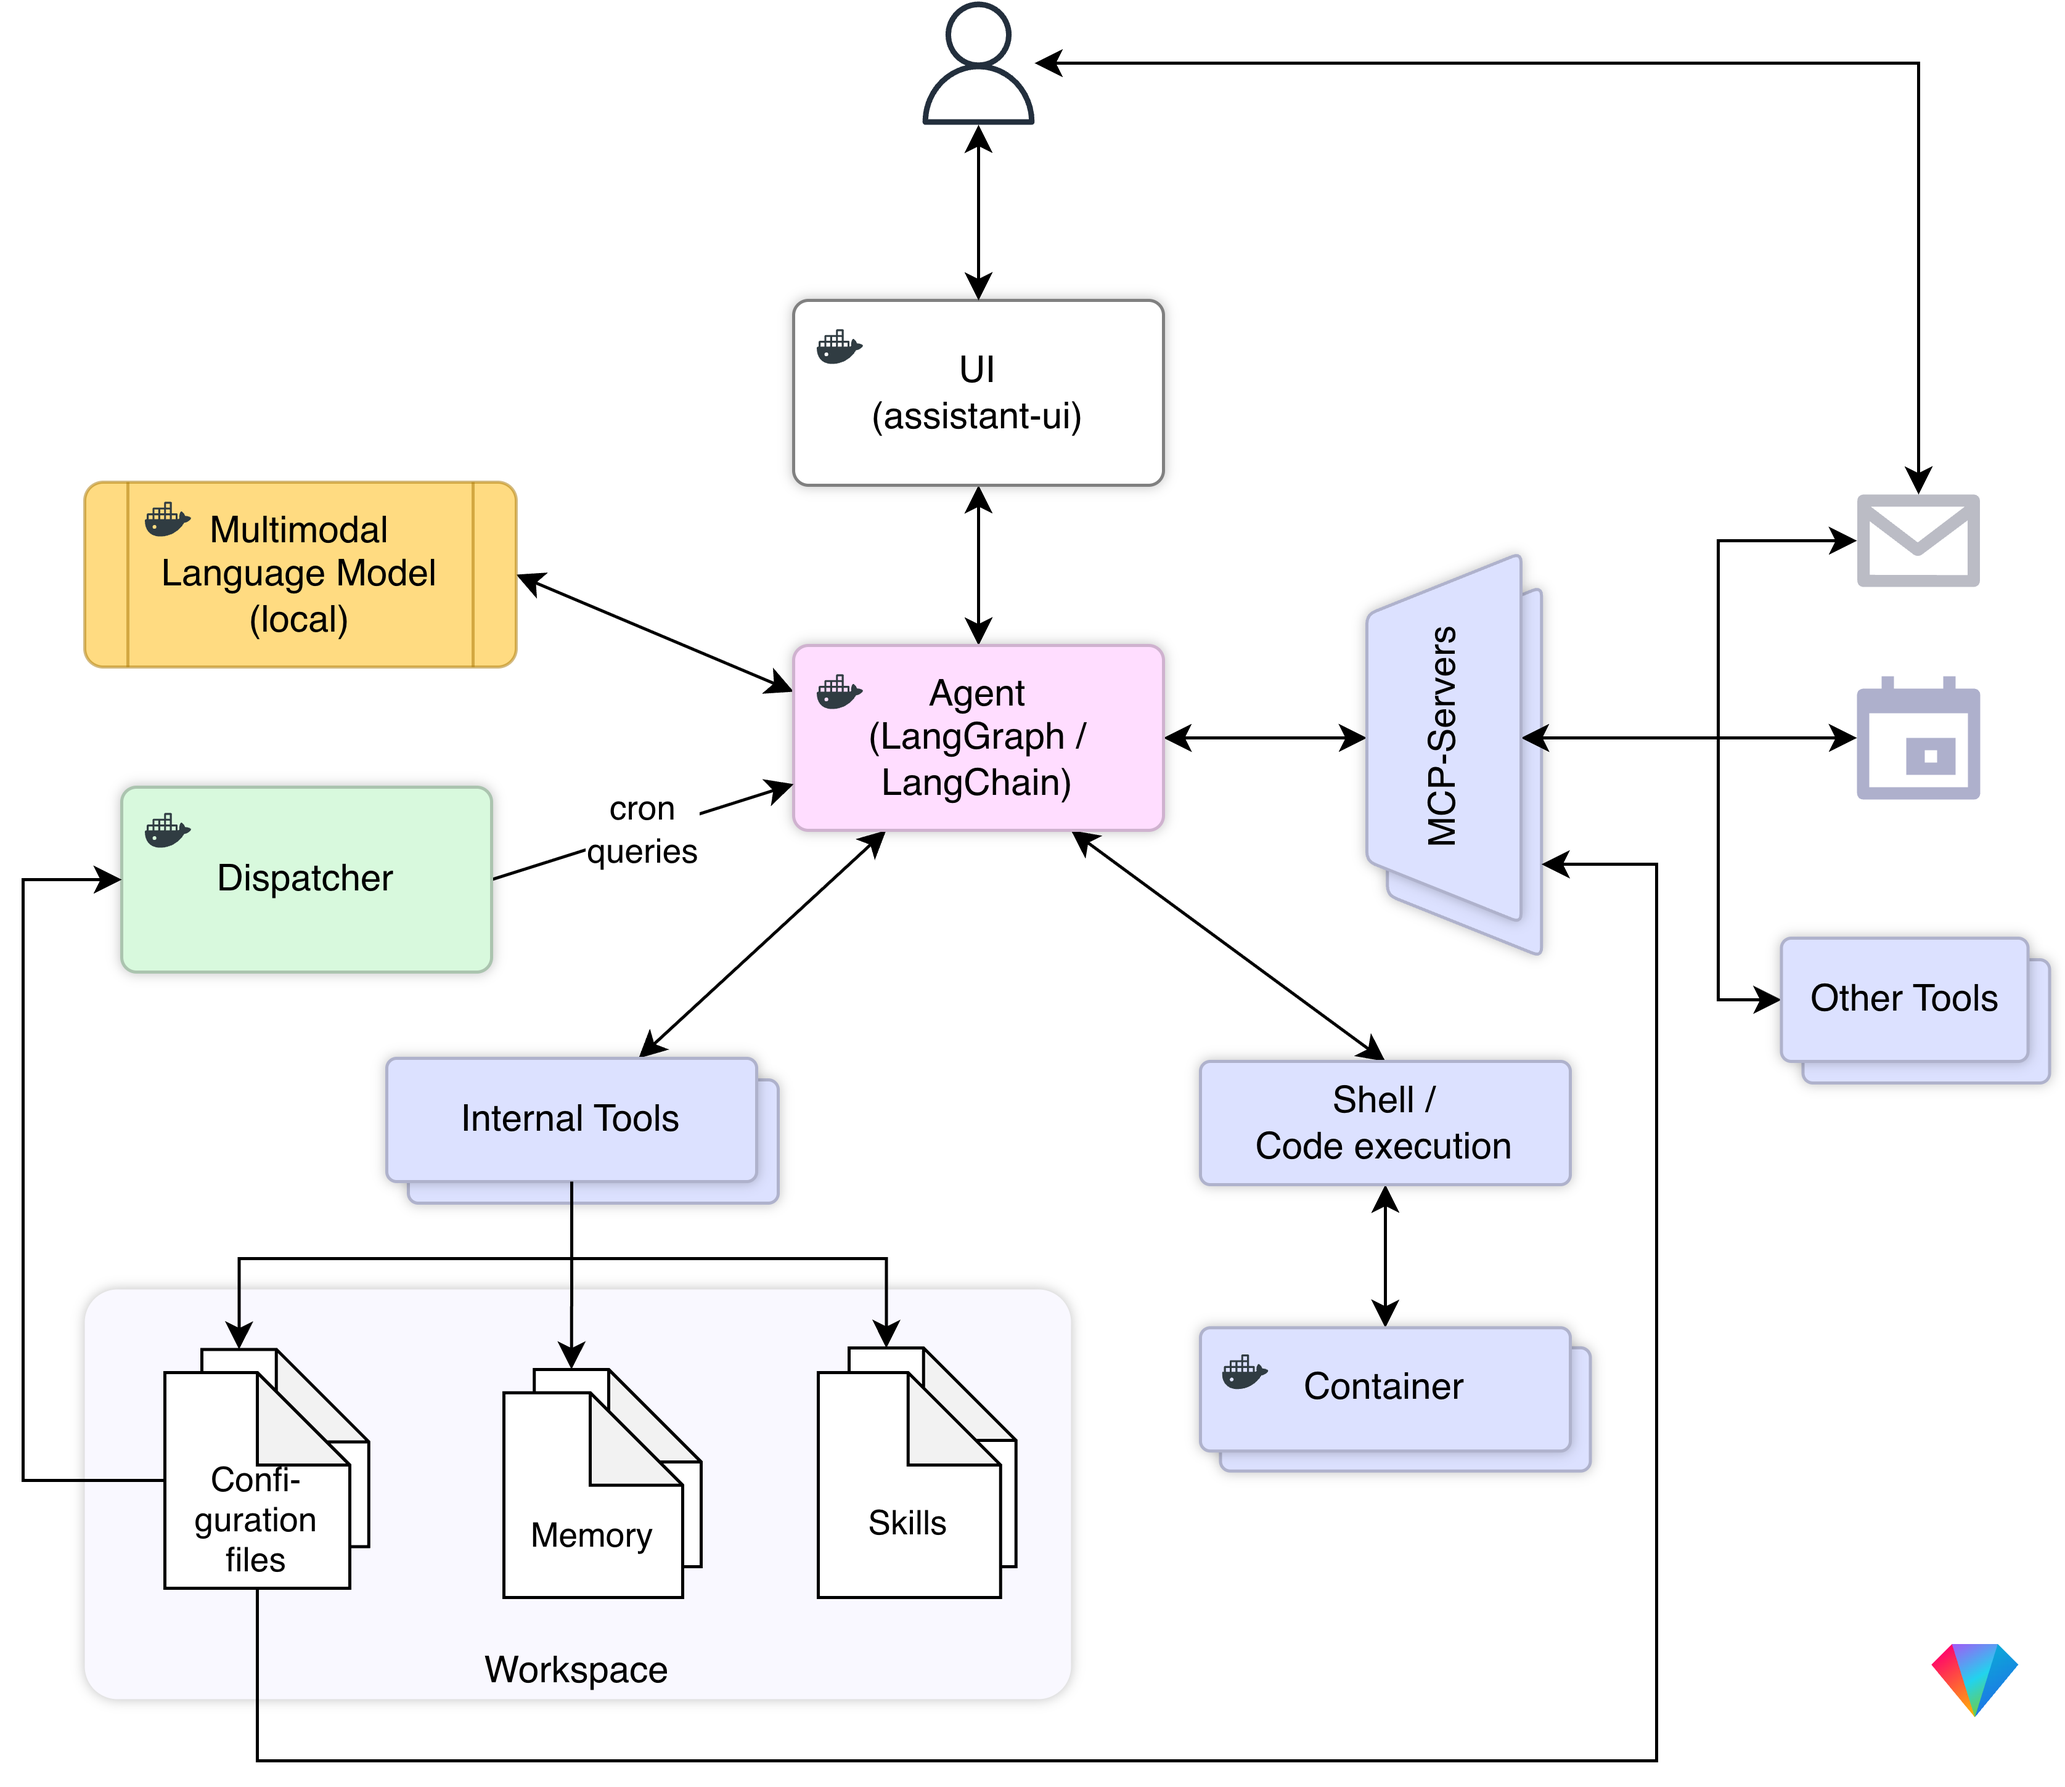
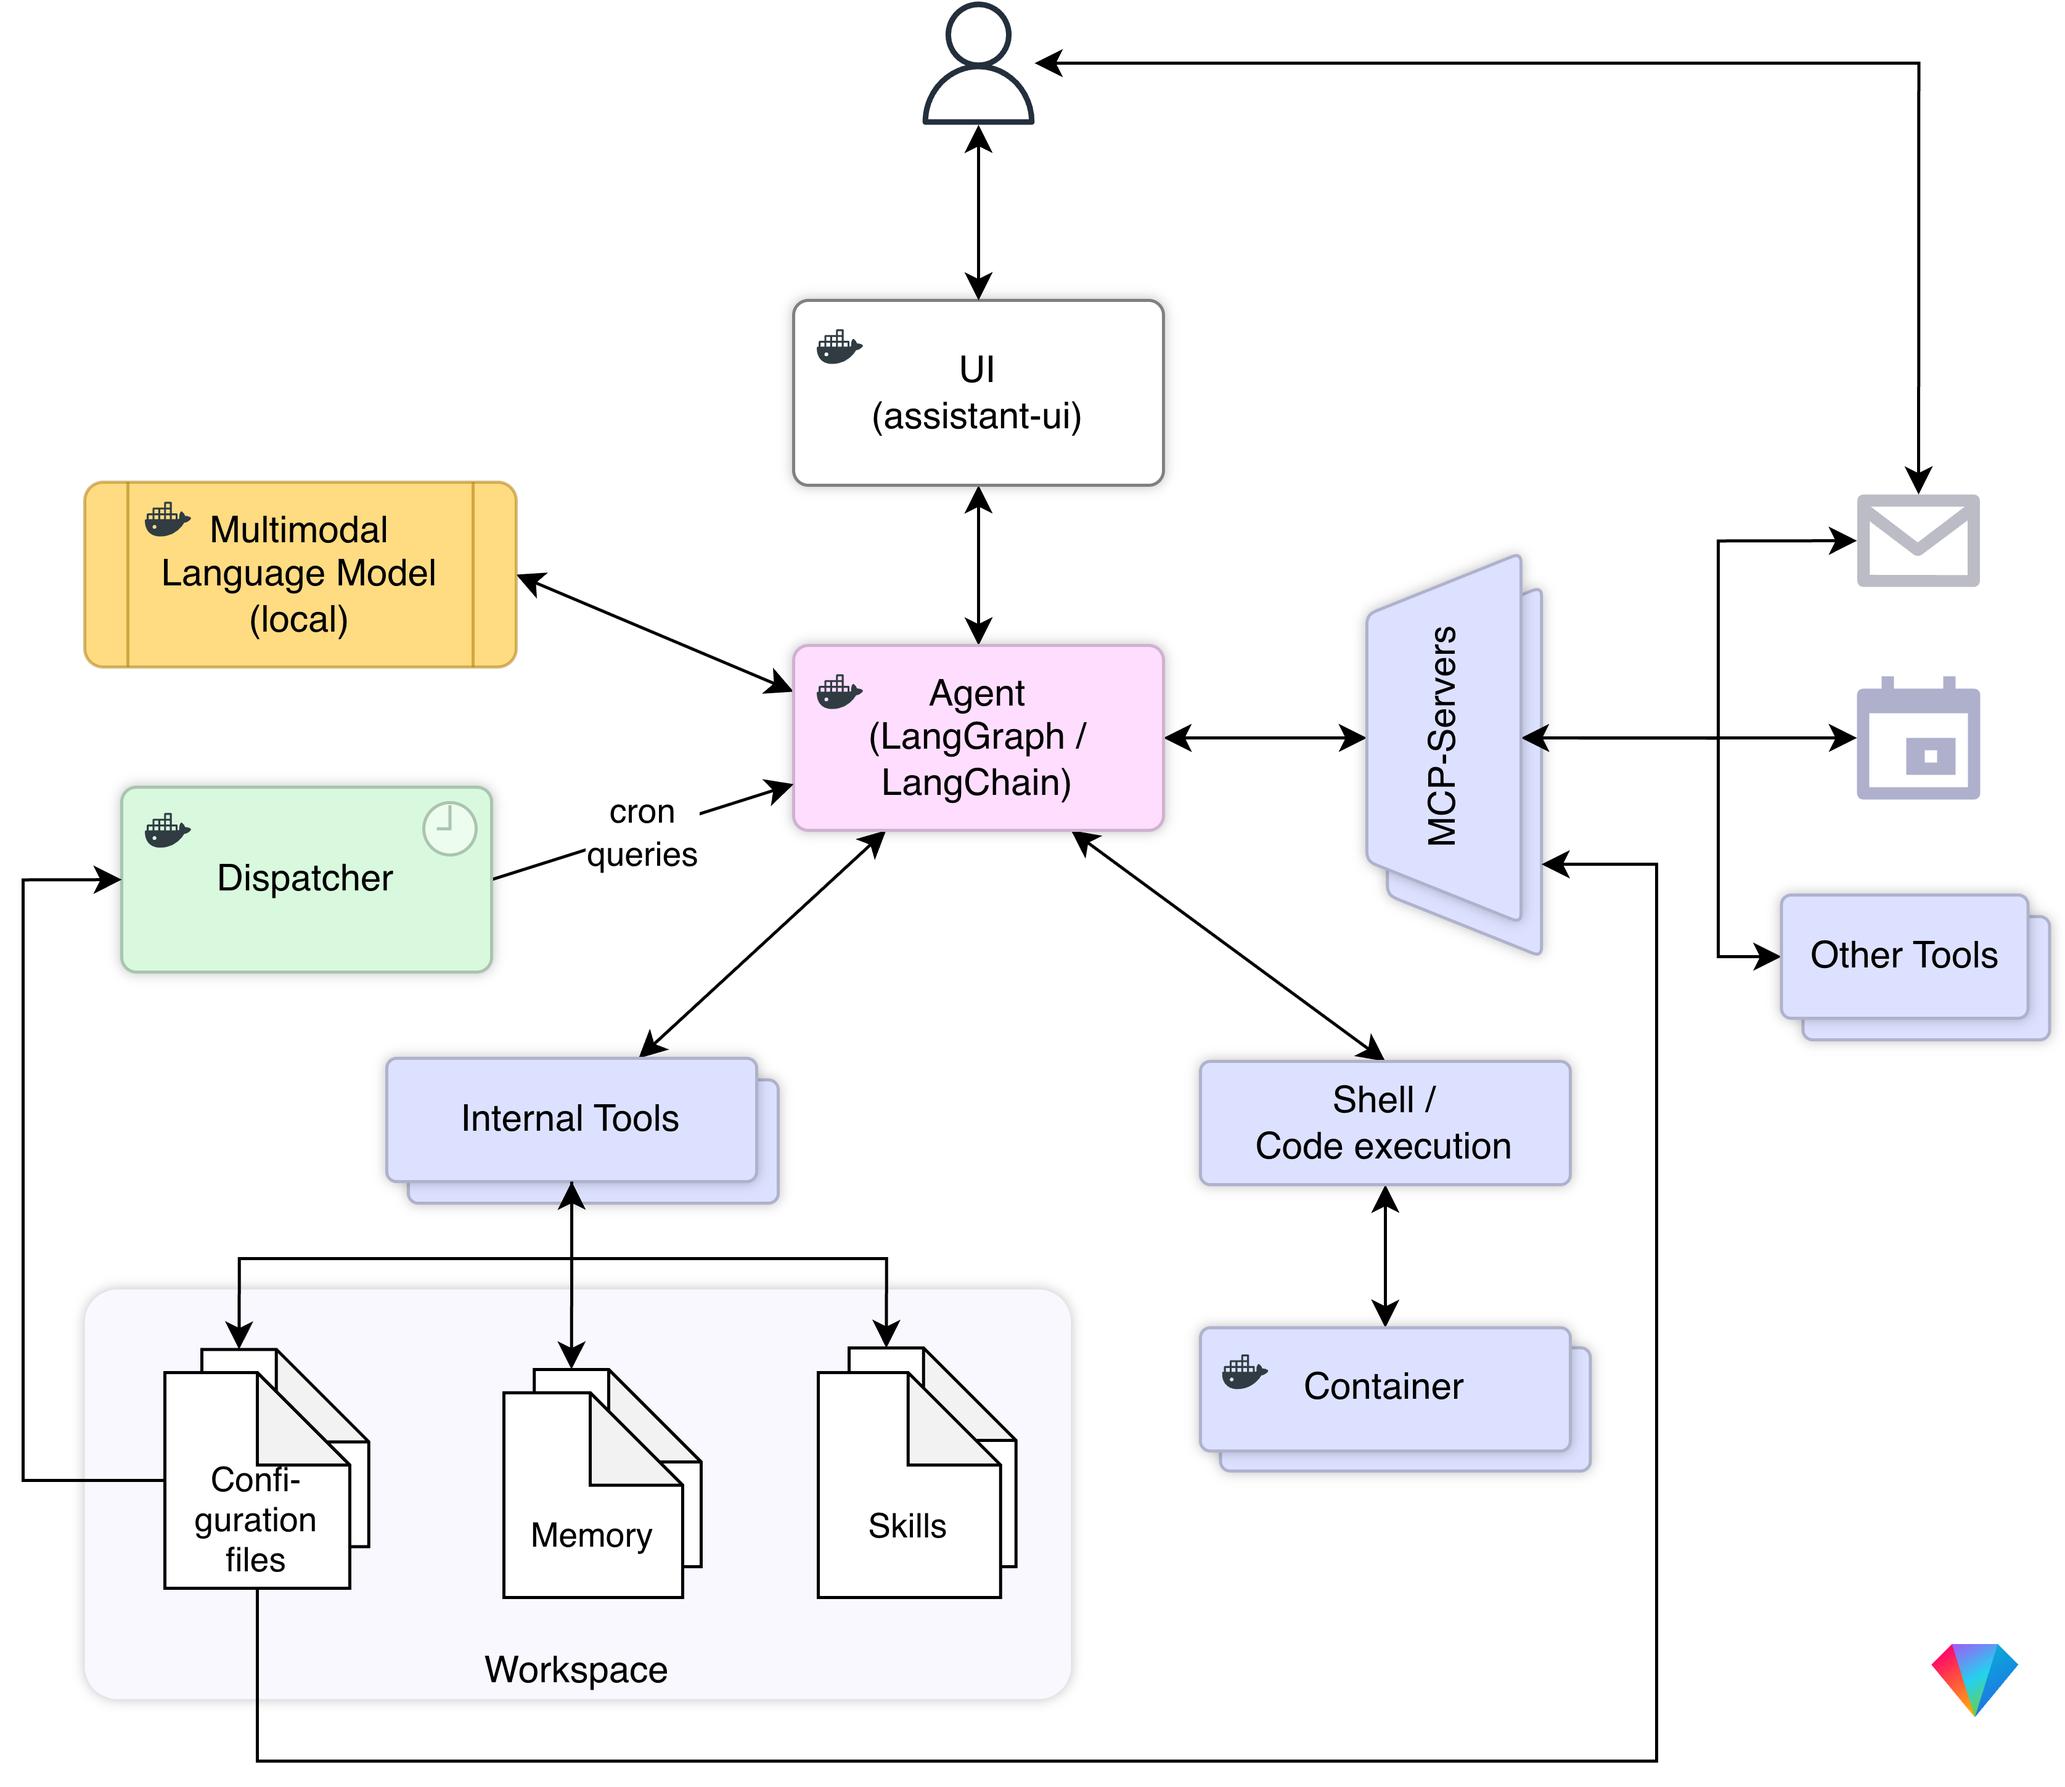
Improve documentation.

Changed region(s): [[0.8382, 0.4966, 0.9934, 0.6207], [0.4036, 0.8379, 0.4657, 0.869], [0.2794, 0.4655, 0.3415, 0.4966]]

diff --git a/README.md b/README.md
@@ -37,6 +37,9 @@ A minimalistic, all-local, fully containerized, open-source AI agent.
 ### Cron queries and cron query memory
 
 Cron queries are queries that are scheduled to run at specific intervals.
+They are triggered by the Dispatcher.
+
+![Cron Query](images/OpenGem_cron_query.png)
 
 *Cron query memory* is a special type of memory that stores the results of cron queries, allowing the agent to access and reason about this information over time. This enables the agent to have a sense of time and to make decisions based on historical data, which is crucial for tasks that require long-term planning and context awareness.
 
